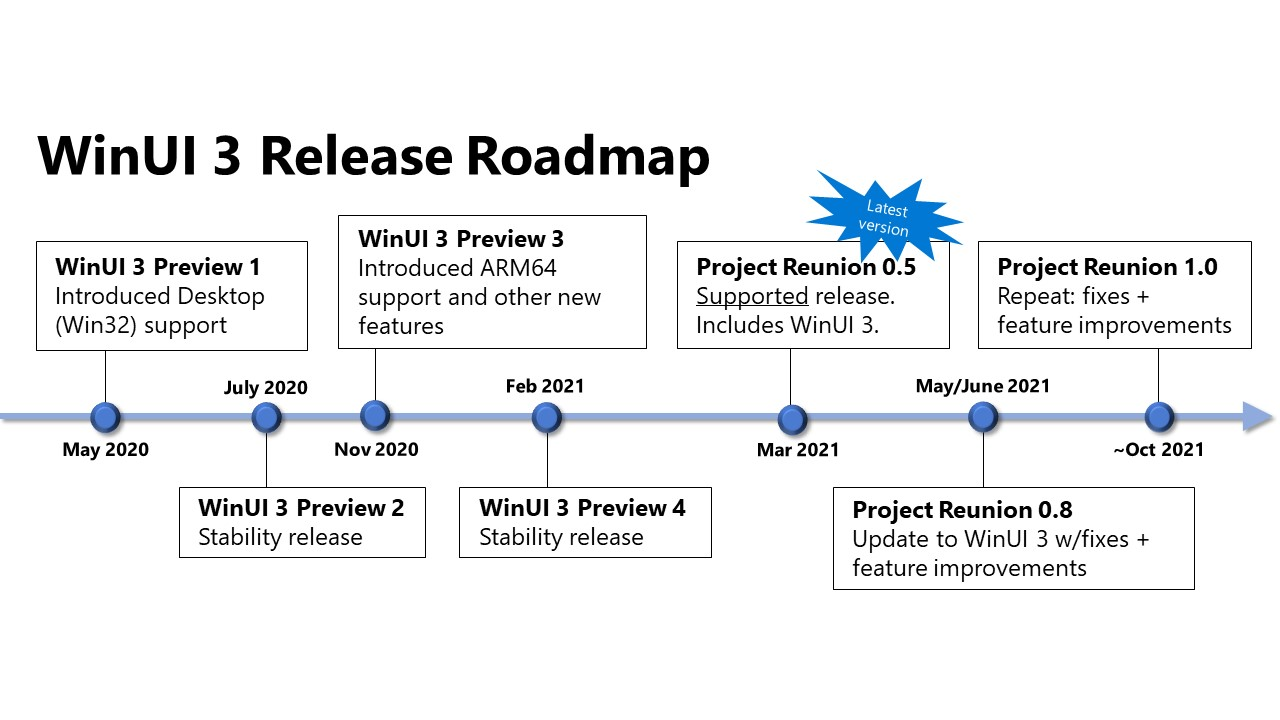
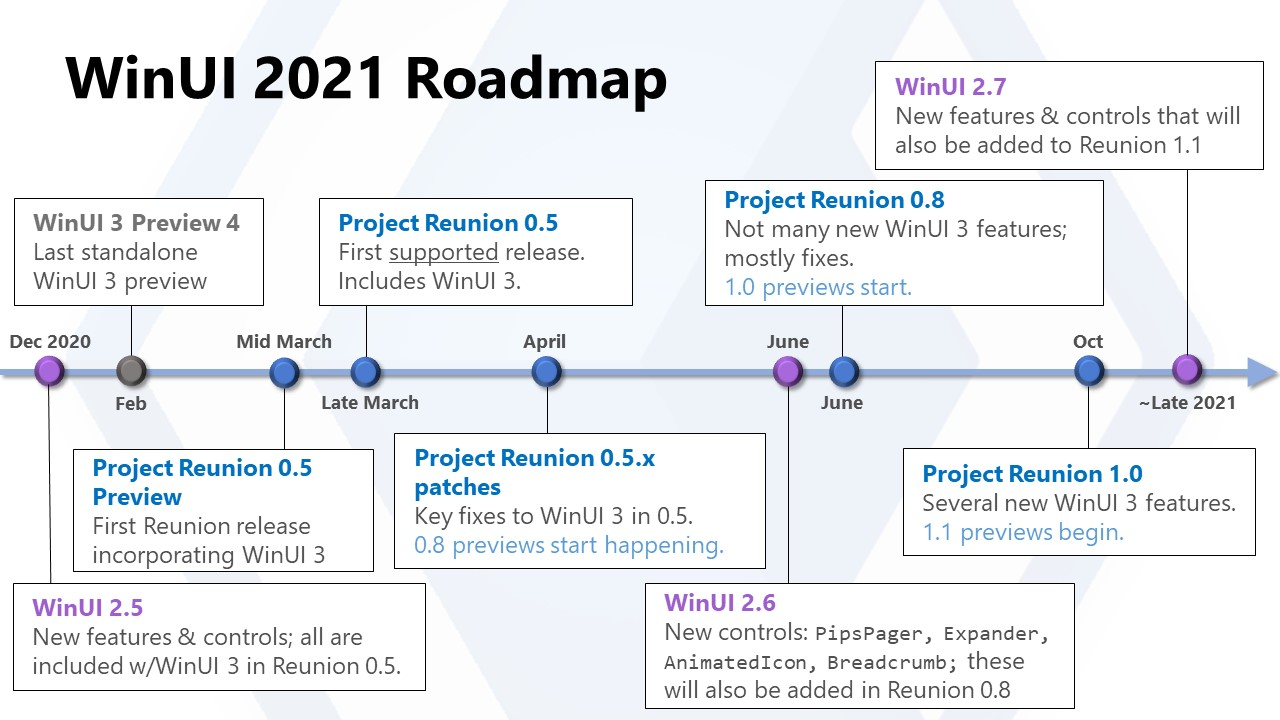
Updating roadmap (#4888)
* Updating with new roadmap image

* fix condition for MUX-ProcessTestResults-Job.yml

diff --git a/docs/roadmap.md b/docs/roadmap.md
@@ -100,14 +100,19 @@ For existing UWP XAML apps there will be some updates required when migrating to
 
 The first stable, supported version of WinUI 3 has just been released. We plan to transition into a release cadence that includes more frequent pre-releases alongside less frequent stable releases, similar to the release cadence of WinUI 2.x. 
 
-See the image below for a more detailed look at our past and future release plans for WinUI 3:
+## WinUI Release Roadmap for 2021
+The image below lists out what the WinUI team plans to ship in 2021.
+
+For WinUI 3, you can plan to see new preview releases of Project Reunion roughly once a month, with three stable releases this year. For more details on when specific features will become available, see the [Feature Roadmap](##WinUI-30-Feature-Roadmap) below. 
+
+For WinUI 2, you can plan to see frequent pre-releases (see our [Releases](https://github.com/microsoft/microsoft-ui-xaml/releases) page for more info), along with three stable releases this year.
 
 ![Winui roadmap](images/winui-roadmap.jpg)
 
 ## WinUI 3.0 Feature Roadmap
 We know that for many of our developers, the choice to adopt WinUI 3 is dependent on certain features and capabilities. The table below outlines the status on WinUI 3 features, and the expected date they'll be available to you. 
 
-As we begin moving towards releasing preview and stable packages in parallel, you'll see in the feature roadmap below that some features remain "preview" features during stable releases. This means that the feature is not stable/bug-free enough to be included in the stable release, but will be available in the corresponding pre-release package. 
+As we begin moving towards releasing preview and stable packages in parallel, you'll see in the feature roadmap below that some features remain "preview" features during stable releases. This means that the feature is not stable/bug-free enough to be included in the stable release, but will be available in the corresponding preview package. 
 
 **Please note: This is a living document, and the information below can and likely will change as the project continues development. The feature availability dates listed here are the team's current goals and expectations, but are not promises or guarantees.**
 
@@ -125,7 +130,7 @@ Blank -  Not available
 
 **WinUI 3 - Project Reunion 0.5** is our latest release. 
 
-| Customer Capability                                                         | Preview 3 (Nov 2020)                | Preview 4 (Feb 2021)                | Project Reunion 0.5 (March 2021)            | Project Reunion 0.8 (May 2021)              | Planned for a future update         |
+| Customer Capability                                                         | Preview 3 (Nov 2020)                | Preview 4 (Feb 2021)                | Project Reunion 0.5 (March 2021)            | Project Reunion 0.8 (June 2021)              | Planned for a future update         |
 |-----------------------------------------------------------------------------|-------------------------------------|-------------------------------------|-------------------------------------|-------------------------------------|-------------------------------------|
 | WinUI 3 in Desktop (Win32) apps                                             | <div align="center">&#128311;</div> | <div align="center">&#128311;</div> | <div align="center">&#128994;</div> | <div align="center">&#128994;</div> | <div align="center">&#128994;</div> |
 | WinUI 3 in UWP apps                                                         | <div align="center">&#128311;</div> | <div align="center">&#128311;</div> | <div align="center">&#128311;</div> | <div align="center">&#128311;</div> | <div align="center">&#128994;</div> |
